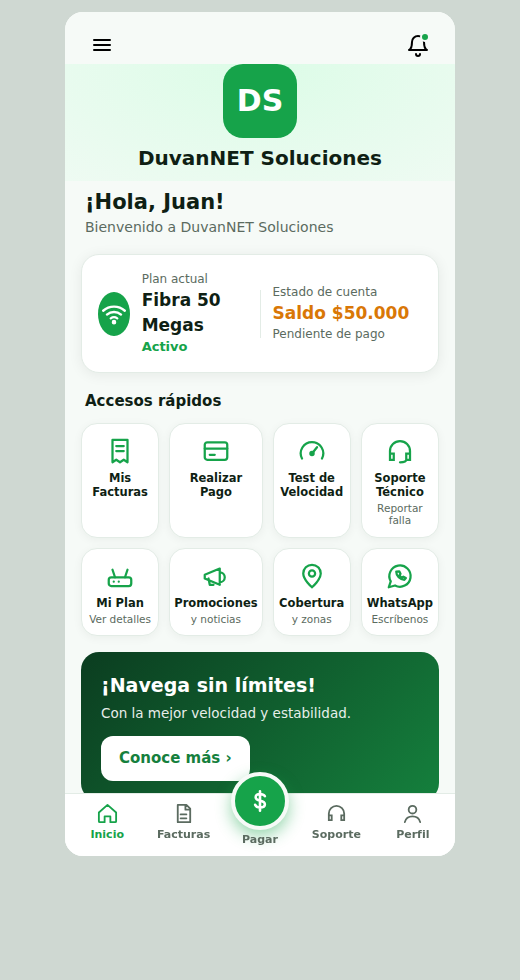
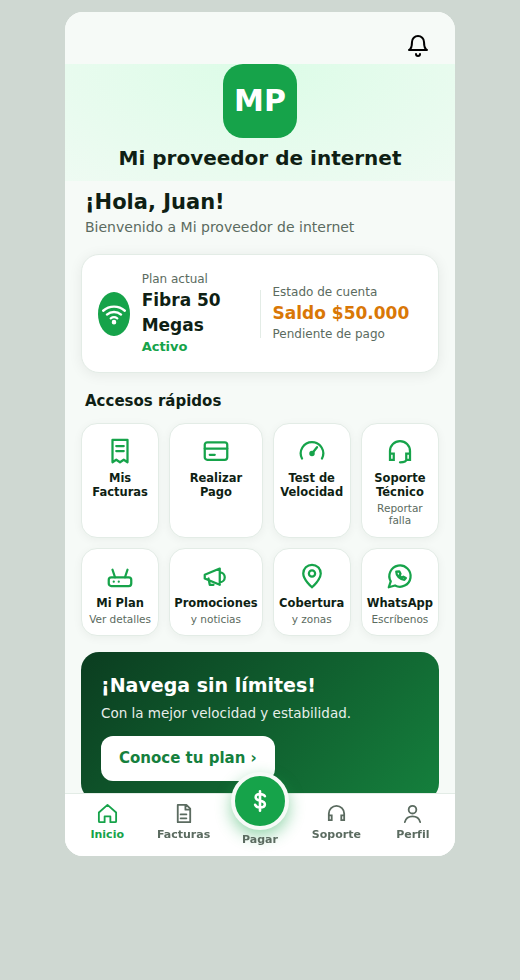
Portal del cliente: endpoints (ingreso por código de WhatsApp y cuenta), pantalla real e instalador
Claude-Session: https://claude.ai/code/session_015sQU8SA9cmuQCd6NLXL7C4

diff --git a/crm/portal-cliente/portal.routes.ts b/crm/portal-cliente/portal.routes.ts
@@ -1,0 +1,176 @@
+// backend/src/routes/portal.routes.ts
+// Portal del cliente final (app móvil): ingreso con documento + código por WhatsApp, y consulta de su cuenta.
+// - La empresa se identifica por el dominio (igual que /api/public/empresa).
+// - Los tokens del portal usan su propio secreto (PORTAL_JWT_SECRET) y audiencia "portal": no sirven en el panel.
+// - Solo lectura: no modifica facturas, pagos ni contratos.
+import { Router } from "express";
+import crypto from "crypto";
+import jwt from "jsonwebtoken";
+import rateLimit from "express-rate-limit";
+import { prisma } from "../lib/prisma";
+import { controlPrisma } from "../lib/controlPrisma";
+import { tenantContext, getCachedTenantClient } from "../lib/tenantDb";
+import { obtenerConfigTenant } from "../lib/tenantConfig";
+import { enviarTextoOpenWA } from "../services/openwa";
+
+const router = Router();
+const SLUG_PREDETERMINADO = "redcien";
+const CODIGO_MIN = 5;
+const MAX_INTENTOS = 5;
+const SESION_DIAS = 30;
+
+router.use((_req, res, next) => {
+  res.setHeader("Cache-Control", "no-store");
+  next();
+});
+
+const limiteIp = rateLimit({
+  windowMs: 15 * 60 * 1000,
+  limit: 20,
+  standardHeaders: true,
+  legacyHeaders: false,
+  message: { error: "Demasiados intentos, intenta de nuevo en unos minutos." },
+});
+
+function secreto(): string | null {
+  return process.env.PORTAL_JWT_SECRET || null;
+}
+const normDoc = (d: unknown) => String(d ?? "").replace(/[^0-9A-Za-z]/g, "").slice(0, 20);
+
+async function ubicarTenant(req: { hostname?: string }) {
+  const host = (req.hostname || "").toLowerCase().replace(/^www\./, "");
+  const slug = host.split(".")[0];
+  for (const s of [slug, SLUG_PREDETERMINADO]) {
+    if (!s) continue;
+    const t: any = await controlPrisma.empresaTenant.findUnique({ where: { slug: s } });
+    if (t?.databaseUrl) return { tenant: t, slug: s, client: getCachedTenantClient(t.databaseUrl) };
+  }
+  return null;
+}
+
+async function buscarCliente(tenantId: string, doc: string, crudo: string) {
+  const cands = Array.from(new Set([doc, crudo.trim()])).filter(Boolean);
+  return (prisma as any).cliente.findFirst({
+    where: { documento: { in: cands }, OR: [{ empresaTenantId: tenantId }, { empresaTenantId: null }] },
+    select: { id: true, nombre: true, whatsapp: true, telefono: true },
+  });
+}
+
+// ---- Códigos de un solo uso (en memoria; duran 5 min, así que un reinicio solo obliga a pedir otro) ----
+type Codigo = { hash: string; exp: number; intentos: number };
+const codigos = new Map<string, Codigo>();
+const pedidos = new Map<string, number[]>();
+const hashCodigo = (c: string) => crypto.createHash("sha256").update(c).digest("hex");
+
+function limpiar() {
+  const ahora = Date.now();
+  if (codigos.size > 5000) for (const [k, v] of codigos) if (v.exp < ahora) codigos.delete(k);
+  if (pedidos.size > 5000) pedidos.clear();
+}
+
+/** 1) El cliente escribe su documento. La respuesta es siempre igual, exista o no, para no revelar quién es cliente. */
+router.post("/solicitar-codigo", limiteIp, async (req, res) => {
+  const doc = normDoc(req.body?.documento);
+  res.json({ ok: true, mensaje: "Si el documento está registrado, te enviamos un código por WhatsApp." });
+  if (doc.length < 5) return;
+  try {
+    limpiar();
+    const ubic = await ubicarTenant(req);
+    if (!ubic) return;
+    const clave = `${ubic.slug}:${doc}`;
+    const ahora = Date.now();
+    const recientes = (pedidos.get(clave) ?? []).filter((t) => ahora - t < 15 * 60 * 1000);
+    if (recientes.length >= 3) return; // máximo 3 códigos cada 15 minutos por documento
+    pedidos.set(clave, [...recientes, ahora]);
+    await tenantContext.run(ubic.client, async () => {
+      const cli = await buscarCliente(ubic.tenant.id, doc, String(req.body?.documento ?? ""));
+      const tel = cli?.whatsapp || cli?.telefono;
+      if (!cli || !tel) return;
+      const codigo = String(crypto.randomInt(0, 1_000_000)).padStart(6, "0");
+      codigos.set(clave, { hash: hashCodigo(codigo), exp: ahora + CODIGO_MIN * 60 * 1000, intentos: 0 });
+      const cfg: any = await obtenerConfigTenant((prisma as any).empresaConfig, ubic.tenant.id).catch(() => null);
+      await enviarTextoOpenWA(String(tel), `Tu código para ingresar a ${cfg?.nombre ?? ubic.tenant.nombre}: ${codigo}\nVence en ${CODIGO_MIN} minutos. No lo compartas con nadie.`);
+    });
+  } catch (err) {
+    console.error("Portal: no se pudo enviar el código:", (err as Error)?.message);
+  }
+});
+
+/** 2) El cliente escribe el código y recibe su sesión. */
+router.post("/verificar", limiteIp, async (req, res) => {
+  const s = secreto();
+  if (!s) return res.status(503).json({ error: "El portal no está configurado." });
+  const doc = normDoc(req.body?.documento);
+  const codigo = String(req.body?.codigo ?? "").replace(/\D/g, "").slice(0, 6);
+  const malo = () => res.status(401).json({ error: "Código incorrecto o vencido." });
+  if (doc.length < 5 || codigo.length !== 6) return malo();
+  const ubic = await ubicarTenant(req);
+  if (!ubic) return malo();
+  const clave = `${ubic.slug}:${doc}`;
+  const reg = codigos.get(clave);
+  if (!reg || reg.exp < Date.now() || reg.intentos >= MAX_INTENTOS) return malo();
+  reg.intentos++;
+  const a = Buffer.from(hashCodigo(codigo));
+  const b = Buffer.from(reg.hash);
+  if (a.length !== b.length || !crypto.timingSafeEqual(a, b)) return malo();
+  codigos.delete(clave);
+  const cli: any = await tenantContext.run(ubic.client, () => buscarCliente(ubic.tenant.id, doc, String(req.body?.documento ?? "")));
+  if (!cli) return malo();
+  const token = jwt.sign({ sub: cli.id, slug: ubic.slug, aud: "portal" }, s, { expiresIn: `${SESION_DIAS}d` });
+  res.json({ token });
+});
+
+const ETIQUETA_SERVICIO: Record<string, string> = { HABILITADO: "Activo", DESHABILITADO: "Suspendido", RETIRADO: "Retirado" };
+
+/** 3) Datos de la cuenta del cliente que inició sesión. */
+router.get("/cuenta", async (req, res) => {
+  const s = secreto();
+  if (!s) return res.status(503).json({ error: "El portal no está configurado." });
+  const auth = String(req.headers.authorization ?? "");
+  let payload: any;
+  try {
+    payload = jwt.verify(auth.replace(/^Bearer\s+/i, ""), s, { audience: "portal" });
+  } catch {
+    return res.status(401).json({ error: "Sesión vencida." });
+  }
+  const ubic = await ubicarTenant(req);
+  if (!ubic || ubic.slug !== payload.slug) return res.status(401).json({ error: "Sesión vencida." });
+
+  await tenantContext.run(ubic.client, async () => {
+    const cli: any = await (prisma as any).cliente.findFirst({
+      where: { id: String(payload.sub) },
+      select: {
+        id: true, nombre: true, documento: true, direccion: true, plan: { select: { nombre: true, velocidadBajada: true, velocidadSubida: true } },
+        contratos: { orderBy: { createdAt: "asc" }, select: { numero: true, estado: true, direccionInstalacion: true, precioMensual: true, plan: { select: { nombre: true, velocidadBajada: true, velocidadSubida: true } } } },
+        facturas: {
+          orderBy: { fechaVencimiento: "desc" }, take: 12,
+          select: { numero: true, monto: true, moraAplicada: true, estado: true, fechaEmision: true, fechaVencimiento: true, pagos: { select: { monto: true } } },
+        },
+      },
+    });
+    if (!cli) return res.status(401).json({ error: "Sesión vencida." });
+    const cfg: any = await obtenerConfigTenant((prisma as any).empresaConfig, ubic.tenant.id).catch(() => null);
+    const medios: any[] = await (prisma as any).medioPagoDigital.findMany({ where: { activo: true }, orderBy: { createdAt: "asc" } }).catch(() => []);
+
+    const contrato = cli.contratos.find((c: any) => c.estado === "HABILITADO") ?? cli.contratos[0] ?? null;
+    const plan = contrato?.plan ?? cli.plan ?? null;
+    const facturas = cli.facturas.map((f: any) => {
+      const abonado = (f.pagos ?? []).reduce((t: number, p: any) => t + Number(p.monto ?? 0), 0);
+      const total = Number(f.monto) + Number(f.moraAplicada ?? 0);
+      const abierta = f.estado === "PENDIENTE" || f.estado === "VENCIDA";
+      return { numero: f.numero, emision: f.fechaEmision, vence: f.fechaVencimiento, estado: f.estado, total, saldo: abierta ? Math.max(total - abonado, 0) : 0 };
+    });
+    const saldo = facturas.reduce((t: number, f: any) => t + f.saldo, 0);
+    res.json({
+      empresa: { nombre: cfg?.nombre ?? ubic.tenant.nombre, logoUrl: cfg?.logoUrl ?? null, whatsapp: cfg?.whatsapp ?? cfg?.telefonoSoporte ?? null },
+      cliente: { nombre: cli.nombre, documento: cli.documento, direccion: contrato?.direccionInstalacion ?? cli.direccion ?? "" },
+      contrato: contrato ? { numero: contrato.numero, estado: ETIQUETA_SERVICIO[contrato.estado] ?? String(contrato.estado) } : null,
+      plan: plan ? { nombre: plan.nombre, bajada: plan.velocidadBajada, subida: plan.velocidadSubida } : null,
+      saldo,
+      facturas: facturas.filter((f: any) => f.estado !== "ANULADA"),
+      medios: medios.map((m) => ({ n: String(m.etiqueta?.trim() || "Llave"), v: String(m.llave ?? "") })),
+    });
+  });
+});
+
+export default router;
